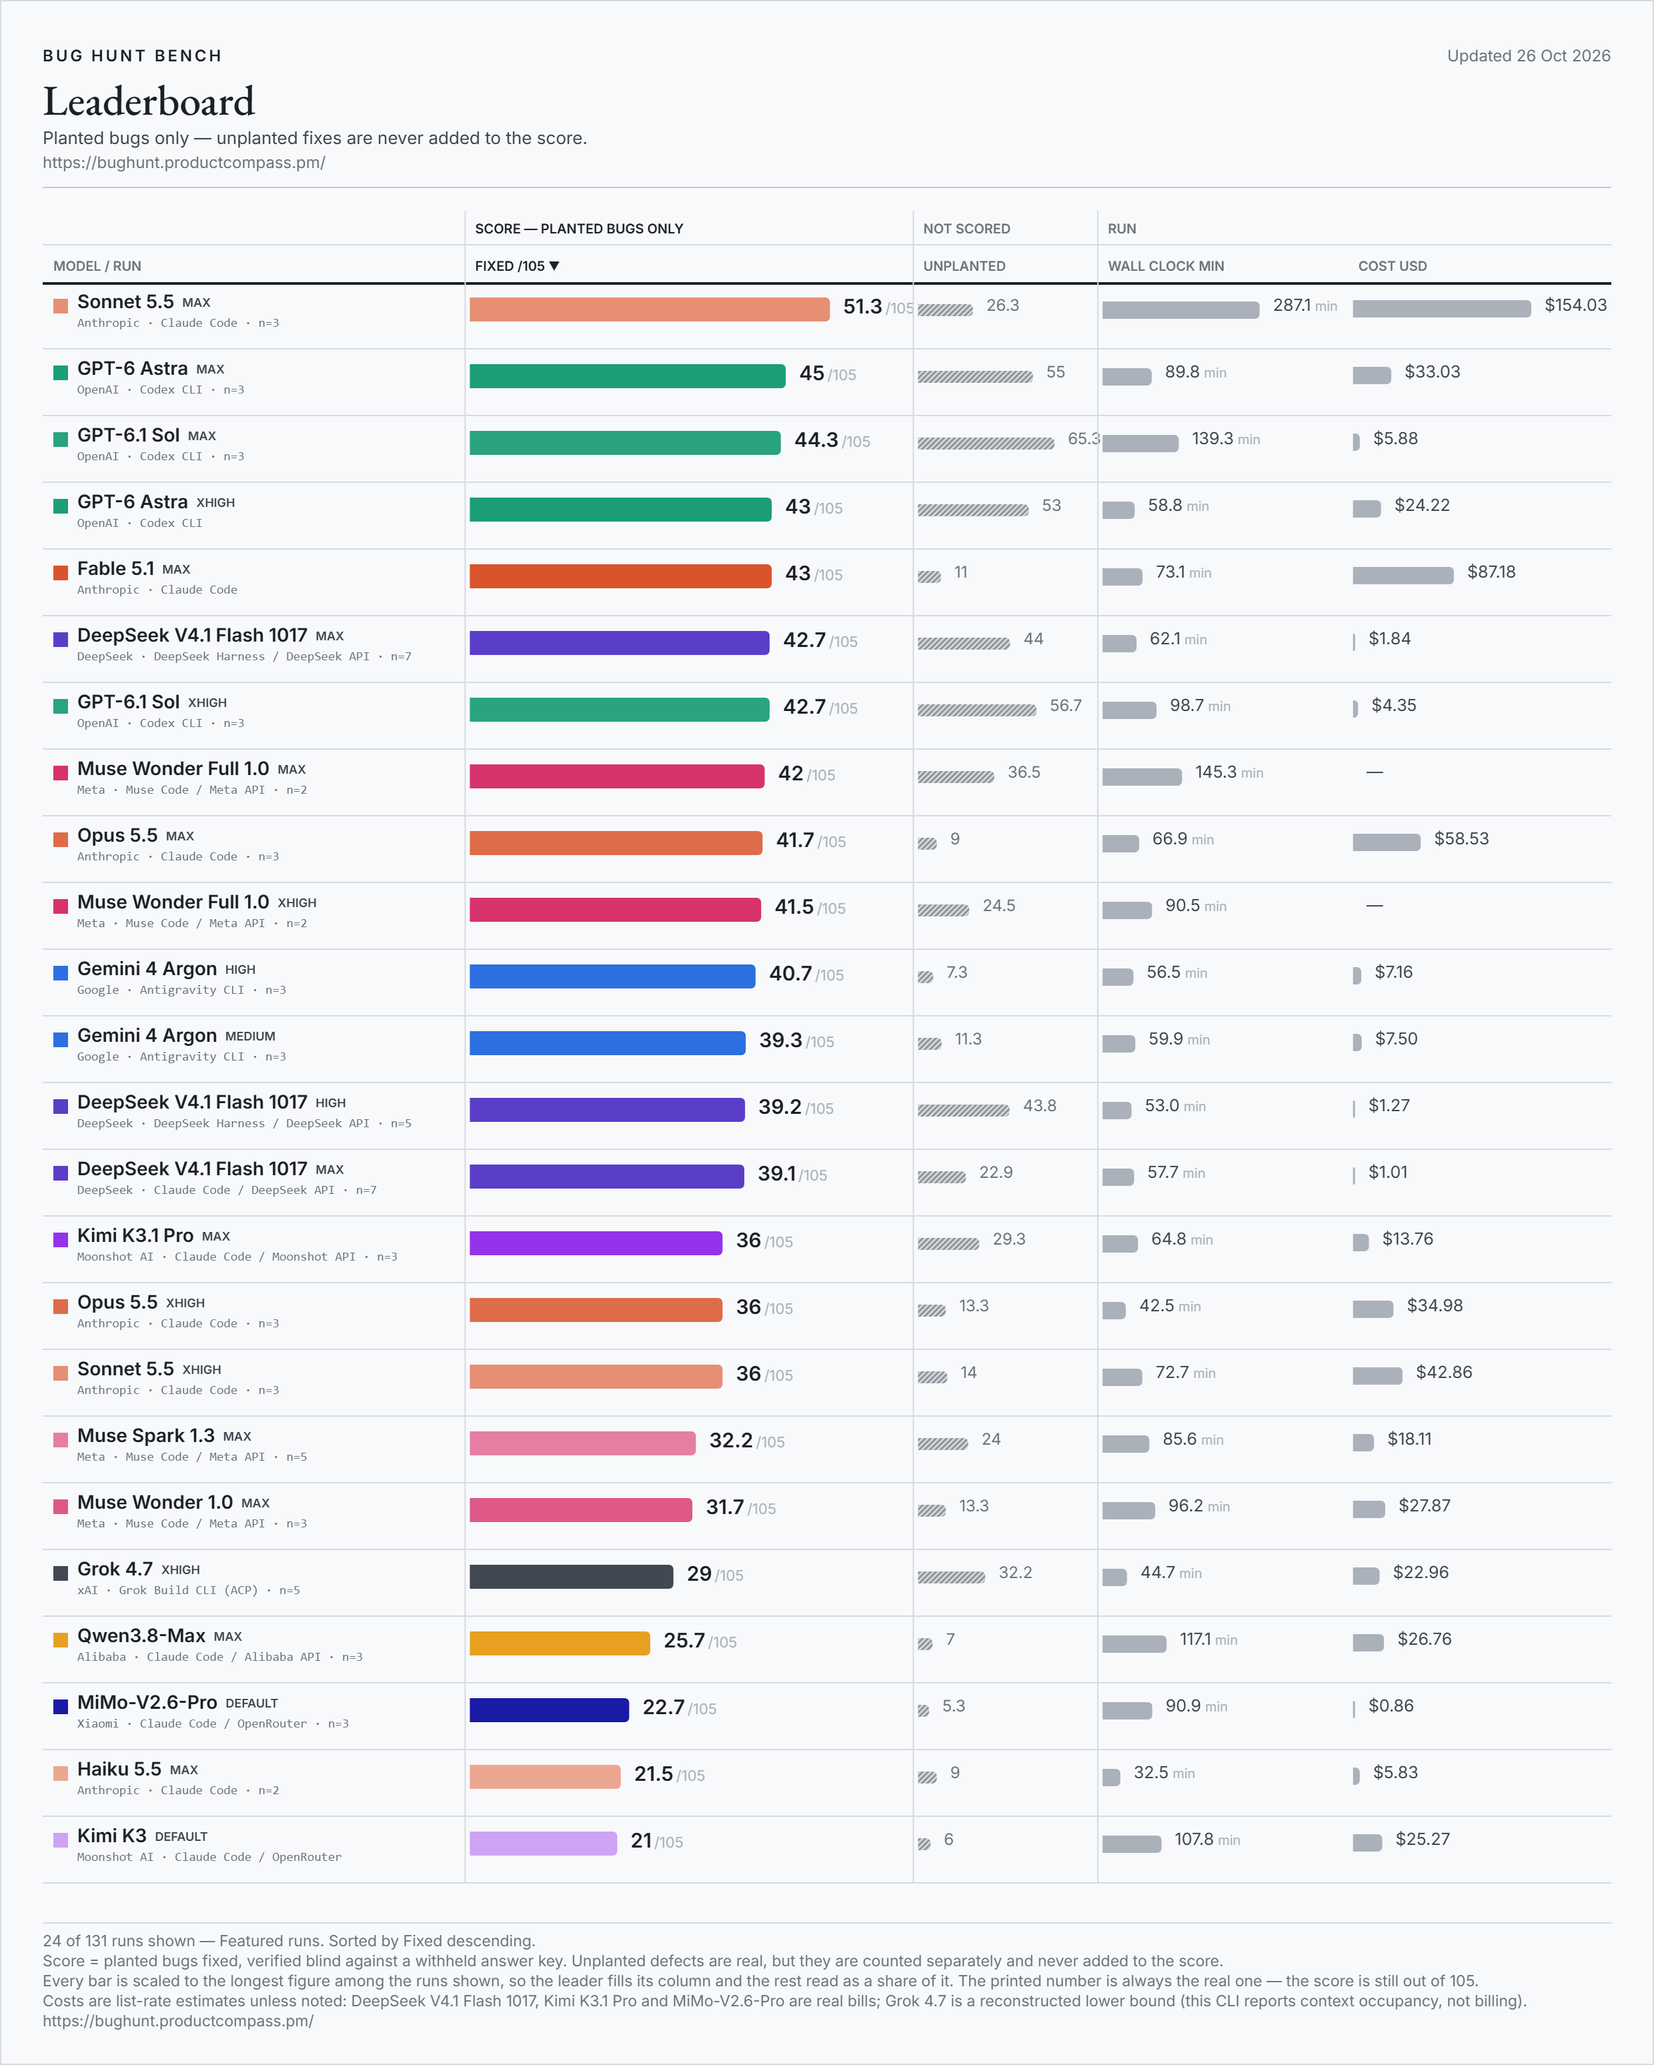
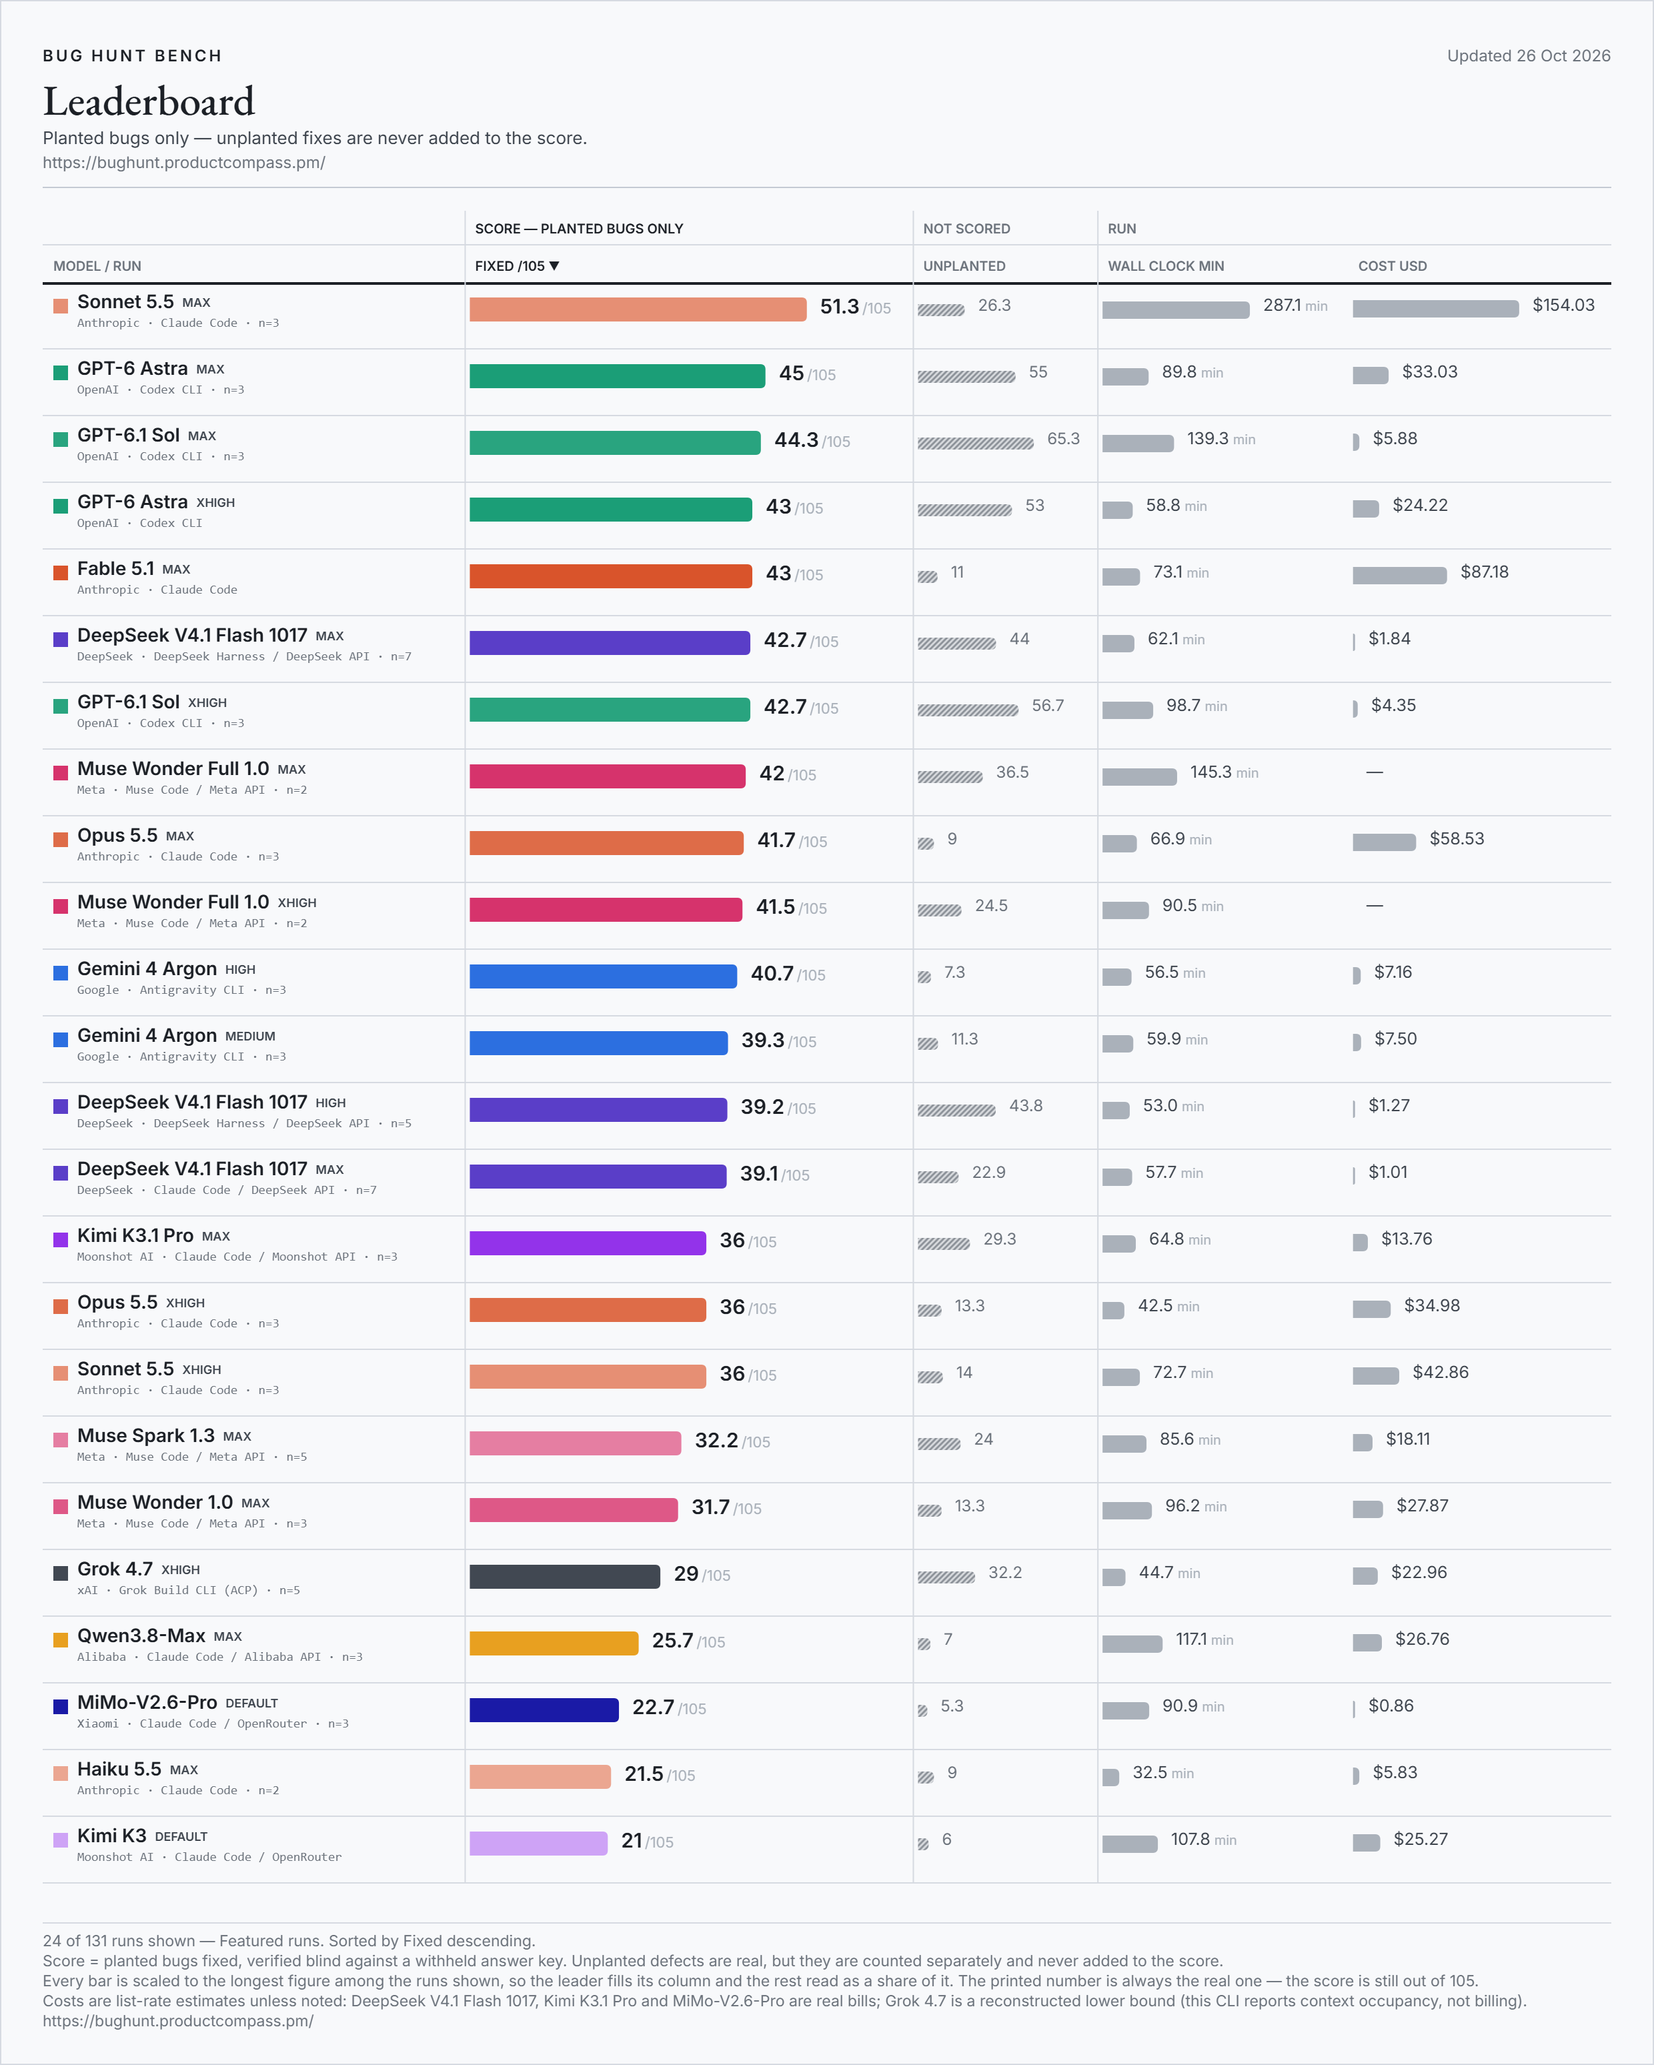
site: PNG export reserves bar space from the widest label on the card - '51.3 /105' and '65.3' no longer run into the next column

diff --git a/assets/js/export-png.js b/assets/js/export-png.js
@@ -12,10 +12,10 @@ import {
   COLUMNS, GROUPS, TOTALS, BAR_SCALE_NOTE, NOTE_MARK, fmtCost, fmtWall, fmtInt,
   fmtDate, barRatio, barScales, effortSuffix, compareRuns, firstSentence,
   costSentence, segmentsText,
-} from './format.js?v=d69cab3767';
-import { scatterLayout, resolveAxis } from './scatter.js?v=d69cab3767';
-import { coverageLayout, coverageOrderNote, coverageSummaryNote } from './coverage.js?v=d69cab3767';
-import { runColor, activeTheme } from './theme.js?v=d69cab3767';
+} from './format.js?v=25672bc480';
+import { scatterLayout, resolveAxis } from './scatter.js?v=25672bc480';
+import { coverageLayout, coverageOrderNote, coverageSummaryNote } from './coverage.js?v=25672bc480';
+import { runColor, activeTheme } from './theme.js?v=25672bc480';
 
 const SCALE = 2;
 const PAD = 32;
@@ -250,6 +250,22 @@ function drawTable(ctx, T, runs, state, w) {
     roundedRight(ctx, c.x + 4, top, bw, height, 4);
     return c.x + 4 + bw;
   };
+  /* The reserve is MEASURED from the widest label on this card, with the old constant as a floor. A fixed
+     58px fit "45 /105" and not "51.3 /105", so once means carried a decimal, the longest bar on a card
+     pushed its own label over the column rule (and "65.3" out of Unplanted into Wall clock). */
+  const widest = (strs, font) => {
+    ctx.font = font;
+    return Math.max(0, ...strs.map((s) => ctx.measureText(s).width));
+  };
+  const has = (v) => v !== null && v !== undefined;
+  const reserve = {
+    fixed: Math.max(58, 12 + widest(runs.map((r) => fmtInt(r.fixed)), `600 15px ${SANS}`)
+      + widest([`/${TOTALS.fixed}`], `11px ${SANS}`) + 8),
+    extras: Math.max(28, 10 + widest(runs.map((r) => fmtInt(r.extras)), `12px ${SANS}`) + 8),
+    wall: Math.max(62, 13 + widest(runs.filter((r) => has(r.wall_min)).map((r) => fmtWall(r.wall_min)),
+      `12.5px ${SANS}`) + widest(['min'], `10px ${SANS}`) + 8),
+    cost: Math.max(56, 10 + widest(runs.map((r) => fmtCost(r.cost_usd)), `12.5px ${SANS}`) + 8),
+  };
   const sorted = runs.slice().sort((a, b) => compareRuns(a, b, state.sort, state.dir));
 
   sorted.forEach((run) => {
@@ -279,16 +295,16 @@ function drawTable(ctx, T, runs, state, w) {
         text(ctx, truncate(ctx, metaStr, metaFont, c.width - 32), c.x + 26, baseline + 14, metaFont, T.muted);
       } else if (c.key === 'fixed') {
         const end = drawBar(c, top + 11, barRatio(run.fixed, fixedMax), 18,
-          runColor(run.color), 58);
+          runColor(run.color), reserve.fixed);
         ctx.font = `600 15px ${SANS}`;
         const nw = ctx.measureText(fmtInt(run.fixed)).width;
         text(ctx, fmtInt(run.fixed), end + 10, baseline + 4, `600 15px ${SANS}`, T.ink);
         text(ctx, `/${TOTALS.fixed}`, end + 12 + nw, baseline + 4, `11px ${SANS}`, T.neutral);
       } else if (c.key === 'extras') {
-        const end = drawBar(c, top + 16, barRatio(run.extras, extrasMax), 9, hatch, 28);
+        const end = drawBar(c, top + 16, barRatio(run.extras, extrasMax), 9, hatch, reserve.extras);
         text(ctx, fmtInt(run.extras), end + 10, baseline + 2, `12px ${SANS}`, T.muted);
       } else if (c.key === 'wall_min') {
-        const end = drawBar(c, top + 14, barRatio(run.wall_min, wallMax), 13, T.bar, 62);
+        const end = drawBar(c, top + 14, barRatio(run.wall_min, wallMax), 13, T.bar, reserve.wall);
         ctx.font = `12.5px ${SANS}`;
         const vw = ctx.measureText(fmtWall(run.wall_min)).width;
         text(ctx, fmtWall(run.wall_min), end + 10, baseline + 2, `12.5px ${SANS}`, T.ink2);
@@ -298,7 +314,7 @@ function drawTable(ctx, T, runs, state, w) {
       } else if (c.key === 'cost_usd') {
         // the figure only; which of these are bills and which are estimates is
         // one generated sentence in the footer, as it is in the key on the page
-        const end = drawBar(c, top + 13, barRatio(run.cost_usd, costMax), 13, T.bar, 56);
+        const end = drawBar(c, top + 13, barRatio(run.cost_usd, costMax), 13, T.bar, reserve.cost);
         text(ctx, fmtCost(run.cost_usd), end + 10, baseline + 2, `12.5px ${SANS}`, T.ink2);
       } else {
         const v = run[c.key];

diff --git a/index.html b/index.html
@@ -15,21 +15,21 @@
      <html> before the first paint, so a dark-theme visitor never sees a white
      flash. It is a file rather than an inline block because the CSP has no
      'unsafe-inline'. -->
-<script src="/assets/js/theme-boot.js?v=d69cab3767"></script>
+<script src="/assets/js/theme-boot.js?v=25672bc480"></script>
 
 <meta property="og:type" content="website">
 <meta property="og:site_name" content="Bug Hunt Bench">
 <meta property="og:title" content="Bug Hunt Bench — frontier coding models against real planted bugs">
 <meta property="og:description" content="A blind-graded benchmark of frontier coding models on real bugs planted in two production codebases. The score counts planted bugs only; extra fixes are tracked separately and never added.">
 <meta property="og:url" content="https://bughunt.productcompass.pm/">
-<meta property="og:image" content="https://bughunt.productcompass.pm/og-image.png?v=2026-10-26-eae9eebc">
+<meta property="og:image" content="https://bughunt.productcompass.pm/og-image.png?v=2026-10-26-f2cc9596">
 <meta property="og:image:width" content="1200">
 <meta property="og:image:height" content="630">
 <meta property="og:image:alt" content="Bug Hunt Bench leaderboard">
 <meta name="twitter:card" content="summary_large_image">
 <meta name="twitter:title" content="Bug Hunt Bench — frontier coding models against real planted bugs">
 <meta name="twitter:description" content="A blind-graded benchmark of frontier coding models on real bugs planted in two production codebases. The score counts planted bugs only.">
-<meta name="twitter:image" content="https://bughunt.productcompass.pm/og-image.png?v=2026-10-26-eae9eebc">
+<meta name="twitter:image" content="https://bughunt.productcompass.pm/og-image.png?v=2026-10-26-f2cc9596">
 <meta name="twitter:creator" content="@PawelHuryn">
 
 <link rel="icon" href="/assets/favicon.svg" type="image/svg+xml">
@@ -38,7 +38,7 @@
 <link rel="preconnect" href="https://fonts.googleapis.com">
 <link rel="preconnect" href="https://fonts.gstatic.com" crossorigin>
 <link rel="stylesheet" href="https://fonts.googleapis.com/css2?family=EB+Garamond:ital,wght@0,400;0,500;1,400&amp;family=Inter:wght@400;500;600&amp;display=swap">
-<link rel="stylesheet" href="/assets/css/site.css?v=d69cab3767">
+<link rel="stylesheet" href="/assets/css/site.css?v=25672bc480">
 
 <!-- dateModified and url are patched at runtime from data/benchmark.json; keep the static values in sync anyway. -->
 <script type="application/ld+json" id="dataset-schema">
@@ -76,9 +76,9 @@
   ]
 }
 </script>
-<script type="module" src="/assets/js/main.js?v=d69cab3767"></script>
+<script type="module" src="/assets/js/main.js?v=25672bc480"></script>
 <!-- Microsoft Clarity analytics. A file, not an inline block: the CSP has no 'unsafe-inline'. -->
-<script src="/assets/js/clarity.js?v=d69cab3767" async></script>
+<script src="/assets/js/clarity.js?v=25672bc480" async></script>
 </head>
 <body>
 <a class="skip-link" href="#leaderboard">Skip to the leaderboard</a>

diff --git a/method.html b/method.html
@@ -13,21 +13,21 @@
 
 <!-- Same render-blocking theme stamp as the board: both pages share the theme,
      and a reader who picked dark on one must not get a white flash on the other. -->
-<script src="/assets/js/theme-boot.js?v=d69cab3767"></script>
+<script src="/assets/js/theme-boot.js?v=25672bc480"></script>
 
 <meta property="og:type" content="article">
 <meta property="og:site_name" content="Bug Hunt Bench">
 <meta property="og:title" content="Method, caveats and definitions — Bug Hunt Bench">
 <meta property="og:description" content="How Bug Hunt Bench is run and graded, what the board cannot tell you, and what every column on it means.">
 <meta property="og:url" content="https://bughunt.productcompass.pm/method">
-<meta property="og:image" content="https://bughunt.productcompass.pm/og-image.png?v=2026-10-26-eae9eebc">
+<meta property="og:image" content="https://bughunt.productcompass.pm/og-image.png?v=2026-10-26-f2cc9596">
 <meta property="og:image:width" content="1200">
 <meta property="og:image:height" content="630">
 <meta property="og:image:alt" content="Bug Hunt Bench leaderboard">
 <meta name="twitter:card" content="summary_large_image">
 <meta name="twitter:title" content="Method, caveats and definitions — Bug Hunt Bench">
 <meta name="twitter:description" content="How Bug Hunt Bench is run and graded, what the board cannot tell you, and what every column on it means.">
-<meta name="twitter:image" content="https://bughunt.productcompass.pm/og-image.png?v=2026-10-26-eae9eebc">
+<meta name="twitter:image" content="https://bughunt.productcompass.pm/og-image.png?v=2026-10-26-f2cc9596">
 <meta name="twitter:creator" content="@PawelHuryn">
 
 <link rel="icon" href="/assets/favicon.svg" type="image/svg+xml">
@@ -36,11 +36,11 @@
 <link rel="preconnect" href="https://fonts.googleapis.com">
 <link rel="preconnect" href="https://fonts.gstatic.com" crossorigin>
 <link rel="stylesheet" href="https://fonts.googleapis.com/css2?family=EB+Garamond:ital,wght@0,400;0,500;1,400&amp;family=Inter:wght@400;500;600&amp;display=swap">
-<link rel="stylesheet" href="/assets/css/site.css?v=d69cab3767">
+<link rel="stylesheet" href="/assets/css/site.css?v=25672bc480">
 
-<script type="module" src="/assets/js/method.js?v=d69cab3767"></script>
+<script type="module" src="/assets/js/method.js?v=25672bc480"></script>
 <!-- Microsoft Clarity analytics. A file, not an inline block: the CSP has no 'unsafe-inline'. -->
-<script src="/assets/js/clarity.js?v=d69cab3767" async></script>
+<script src="/assets/js/clarity.js?v=25672bc480" async></script>
 </head>
 <body>
 <a class="skip-link" href="#method">Skip to the method</a>

diff --git a/assets/js/main.js b/assets/js/main.js
@@ -9,15 +9,15 @@
 import {
   COLUMNS, BAR_SCALE_NOTE, NOTE_MARK, costSentence, firstSentence,
   caveatHref, defHref, methodHref, slugify, fmtDate, el, EFFORT_RANK,
-} from './format.js?v=d69cab3767';
-import { renderHead, renderBody, renderColgroup } from './table.js?v=d69cab3767';
+} from './format.js?v=25672bc480';
+import { renderHead, renderBody, renderColgroup } from './table.js?v=25672bc480';
 import {
   renderScatter, AXES, SCALES, scaledAxis, scaleSentence,
-} from './scatter.js?v=d69cab3767';
-import { renderPicker, refreshGroups } from './selector.js?v=d69cab3767';
-import { exportView } from './export-png.js?v=d69cab3767';
-import { initTheme, hasAdjustedColors } from './theme.js?v=d69cab3767';
-import { renderCoverage, coverageOrderNote, coverageSummaryNote } from './coverage.js?v=d69cab3767';
+} from './scatter.js?v=25672bc480';
+import { renderPicker, refreshGroups } from './selector.js?v=25672bc480';
+import { exportView } from './export-png.js?v=25672bc480';
+import { initTheme, hasAdjustedColors } from './theme.js?v=25672bc480';
+import { renderCoverage, coverageOrderNote, coverageSummaryNote } from './coverage.js?v=25672bc480';
 
 const PRESETS = {
   featured: { test: (r) => r.featured === true, name: 'Featured runs' },

diff --git a/assets/js/coverage.js b/assets/js/coverage.js
@@ -34,9 +34,9 @@
    pivot's dividers land in the same place all the way down the card, on
    screen and in the PNG export alike. */
 
-import { el, TOTALS, harnessShort, harnessTwinIds } from './format.js?v=d69cab3767';
-import { effortBadge } from './table.js?v=d69cab3767';
-import { runColor } from './theme.js?v=d69cab3767';
+import { el, TOTALS, harnessShort, harnessTwinIds } from './format.js?v=25672bc480';
+import { effortBadge } from './table.js?v=25672bc480';
+import { runColor } from './theme.js?v=25672bc480';
 
 /* Plain words, not a legend of single letters — a reader should not have to
    learn A/B/C/D to read the strip. Order here IS the left-to-right order of

diff --git a/assets/js/scatter.js b/assets/js/scatter.js
@@ -17,8 +17,8 @@
 import {
   pointLabels, fmtCost, fmtWall, fmtTurns, fmtDate, COST_KIND_LABEL, NOTE_MARK, svgEl, el, measureText, EFFORT_RANK,
   harnessShort,
-} from './format.js?v=d69cab3767';
-import { runColor } from './theme.js?v=d69cab3767';
+} from './format.js?v=25672bc480';
+import { runColor } from './theme.js?v=25672bc480';
 
 const LABEL_FONT = '10.5px Inter, system-ui, sans-serif';
 const LOG_TICKS = [0.2, 0.5, 1, 2, 5, 10, 20, 50, 100, 200, 500];

diff --git a/assets/js/method.js b/assets/js/method.js
@@ -8,8 +8,8 @@
    straight at them: a reader who clicks "cost tag" under the table should land
    on that definition, not at the top of this page. */
 
-import { glossaryTerm, fmtDate, el } from './format.js?v=d69cab3767';
-import { initTheme } from './theme.js?v=d69cab3767';
+import { glossaryTerm, fmtDate, el } from './format.js?v=25672bc480';
+import { initTheme } from './theme.js?v=25672bc480';
 
 const $ = (id) => document.getElementById(id);
 

diff --git a/assets/js/selector.js b/assets/js/selector.js
@@ -40,8 +40,8 @@
    model's efforts to behave "just like the whole provider" is asking for exactly
    this, at both levels. */
 
-import { el, fmtDate, effortSuffix } from './format.js?v=d69cab3767';
-import { runColor } from './theme.js?v=d69cab3767';
+import { el, fmtDate, effortSuffix } from './format.js?v=25672bc480';
+import { runColor } from './theme.js?v=25672bc480';
 
 const OTHER_MAX_RUNS = 3;
 const OTHER_LABEL = 'Other';

diff --git a/assets/js/table.js b/assets/js/table.js
@@ -26,8 +26,8 @@
 import {
   COLUMNS, GROUPS, TOTALS, fmtCost, fmtWall, fmtInt,
   barRatio, barScales, effortSuffix, effortDefKey, defHref, el, svgEl, compareRuns,
-} from './format.js?v=d69cab3767';
-import { runColor } from './theme.js?v=d69cab3767';
+} from './format.js?v=25672bc480';
+import { runColor } from './theme.js?v=25672bc480';
 
 const MOBILE_LABEL = {
   fixed: 'Fixed of 105',
